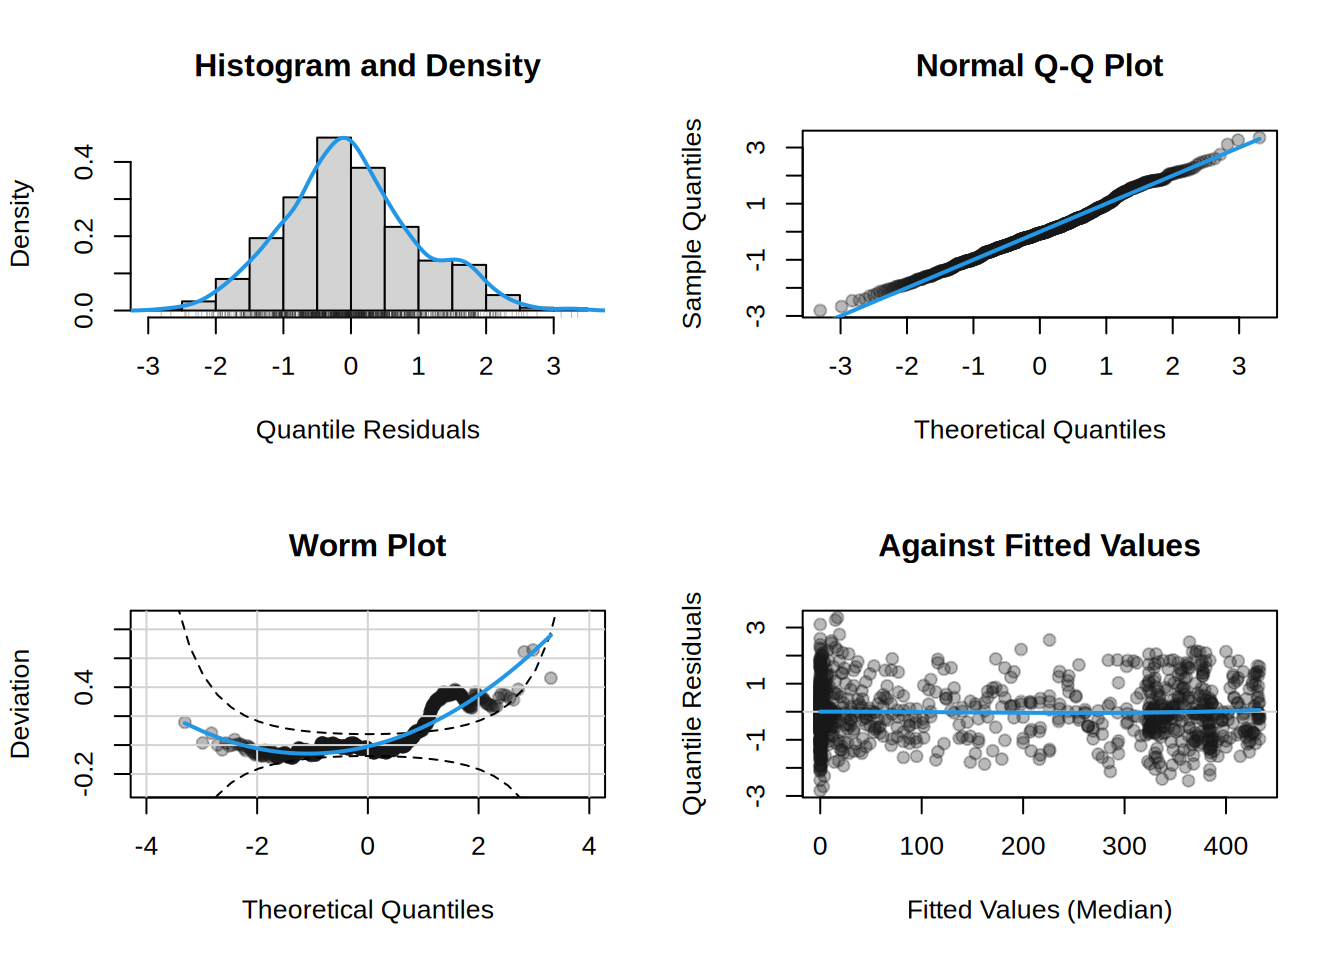
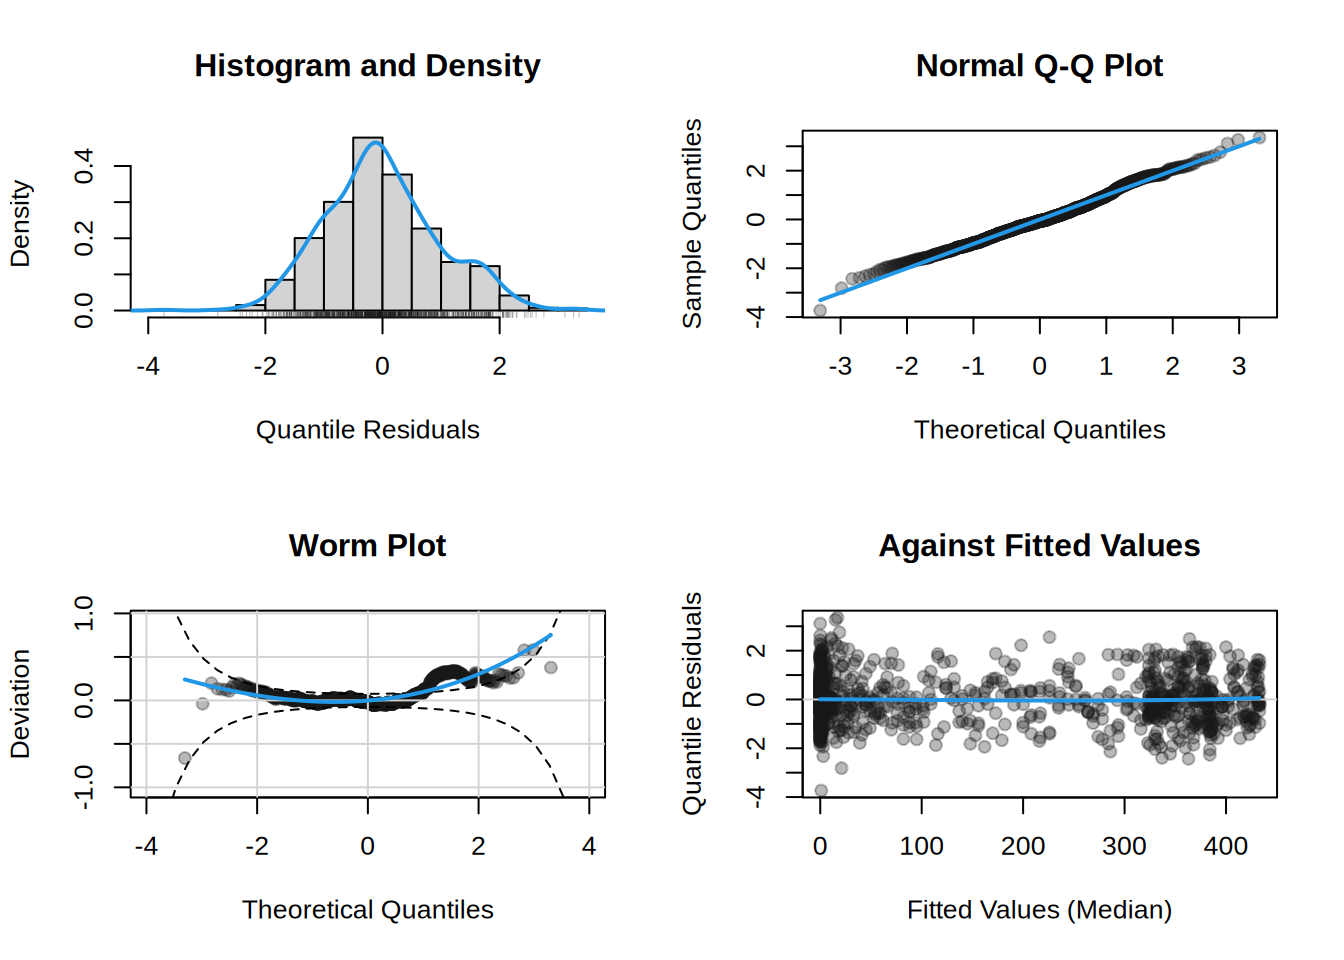
Deploying to gh-pages from @ gamlss-dev/gamlss2@b07c53fc587d2bda0cebe7bdfe5c32abd546854e 🚀

diff --git a/man/fk.html b/man/fk.html
@@ -723,10 +723,10 @@ pre > code.sourceCode > span > a:first-child::before { text-decoration: underlin
 <span id="cb1-3"><a href="#cb1-3" aria-hidden="true" tabindex="-1"></a><span class="fu">data</span>(<span class="st">"SpirometryUS"</span>)</span>
 <span id="cb1-4"><a href="#cb1-4" aria-hidden="true" tabindex="-1"></a></span>
 <span id="cb1-5"><a href="#cb1-5" aria-hidden="true" tabindex="-1"></a><span class="do">## subset for female</span></span>
-<span id="cb1-6"><a href="#cb1-6" aria-hidden="true" tabindex="-1"></a>d <span class="ot">&lt;-</span> <span class="fu">subset</span>(SpirometryUS, gender <span class="sc">==</span> <span class="st">"female"</span>)</span>
+<span id="cb1-6"><a href="#cb1-6" aria-hidden="true" tabindex="-1"></a>d <span class="ot">&lt;-</span> <span class="fu">subset</span>(SpirometryUS, gender <span class="sc">==</span> <span class="st">"male"</span>)</span>
 <span id="cb1-7"><a href="#cb1-7" aria-hidden="true" tabindex="-1"></a></span>
 <span id="cb1-8"><a href="#cb1-8" aria-hidden="true" tabindex="-1"></a><span class="do">## Automatically select zero through four free interior knots</span></span>
-<span id="cb1-9"><a href="#cb1-9" aria-hidden="true" tabindex="-1"></a>m1 <span class="ot">&lt;-</span> <span class="fu">gamlss2</span>(fev1 <span class="sc">~</span> <span class="fu">fk</span>(age, <span class="at">k =</span> <span class="dv">4</span>) <span class="sc">|</span> ., <span class="at">data =</span> d, <span class="at">family =</span> NO)</span>
+<span id="cb1-9"><a href="#cb1-9" aria-hidden="true" tabindex="-1"></a>m1 <span class="ot">&lt;-</span> <span class="fu">gamlss2</span>(fev1 <span class="sc">~</span> <span class="fu">fk</span>(age, <span class="at">nk =</span> <span class="dv">1</span>) <span class="sc">|</span> ., <span class="at">data =</span> d, <span class="at">family =</span> NO)</span>
 <span id="cb1-10"><a href="#cb1-10" aria-hidden="true" tabindex="-1"></a></span>
 <span id="cb1-11"><a href="#cb1-11" aria-hidden="true" tabindex="-1"></a><span class="do">## estimated effects</span></span>
 <span id="cb1-12"><a href="#cb1-12" aria-hidden="true" tabindex="-1"></a><span class="fu">plot</span>(m1)</span>

diff --git a/man/gamlss2.html b/man/gamlss2.html
@@ -803,7 +803,7 @@ edf     7.8749     3.4060        7.7046
 *--------
 n = 116 df =  20.99 res.df =  95.01
 Deviance = 899.5552 Null Dev. Red. = 16.94%
-AIC = 941.5263 elapsed =  0.56sec</code></pre>
+AIC = 941.5263 elapsed =  0.75sec</code></pre>
 </div>
 <div class="code-copy-outer-scaffold"><div class="sourceCode cell-code" id="cb6"><pre class="sourceCode r code-with-copy"><code class="sourceCode r"><span id="cb6-1"><a href="#cb6-1" aria-hidden="true" tabindex="-1"></a><span class="do">## plot parameter-specific effects</span></span>
 <span id="cb6-2"><a href="#cb6-2" aria-hidden="true" tabindex="-1"></a><span class="fu">plot</span>(m1, <span class="at">which =</span> <span class="st">"effects"</span>)</span></code></pre></div><button title="Copy to Clipboard" class="code-copy-button"><i class="bi"></i></button></div>
@@ -924,7 +924,7 @@ edf     6.3823        6.2095
 *--------
 n = 1057 df =  14.59 res.df =  1042.41
 Deviance = 10150.8818 Null Dev. Red. = 12.62%
-AIC = 10180.0654 elapsed =  0.12sec</code></pre>
+AIC = 10180.0654 elapsed =  0.15sec</code></pre>
 </div>
 <div class="code-copy-outer-scaffold"><div class="sourceCode cell-code" id="cb16"><pre class="sourceCode r code-with-copy"><code class="sourceCode r"><span id="cb16-1"><a href="#cb16-1" aria-hidden="true" tabindex="-1"></a><span class="do">## effect plots</span></span>
 <span id="cb16-2"><a href="#cb16-2" aria-hidden="true" tabindex="-1"></a><span class="fu">plot</span>(m2)</span></code></pre></div><button title="Copy to Clipboard" class="code-copy-button"><i class="bi"></i></button></div>

diff --git a/man/OL.html b/man/OL.html
@@ -754,7 +754,7 @@ Signif. codes:  0 '***' 0.001 '**' 0.01 '*' 0.05 '.' 0.1 ' ' 1
 *--------
 n = 72 df =  9 res.df =  63
 Deviance = 3479.1493 Null Dev. Red. = -2099.21%
-AIC = 3497.1493 elapsed =  0.03sec</code></pre>
+AIC = 3497.1493 elapsed =  0.04sec</code></pre>
 </div>
 <div class="code-copy-outer-scaffold"><div class="sourceCode cell-code" id="cb7"><pre class="sourceCode r code-with-copy"><code class="sourceCode r"><span id="cb7-1"><a href="#cb7-1" aria-hidden="true" tabindex="-1"></a><span class="do">## compare coefficients</span></span>
 <span id="cb7-2"><a href="#cb7-2" aria-hidden="true" tabindex="-1"></a><span class="fu">coef</span>(m1)</span></code></pre></div><button title="Copy to Clipboard" class="code-copy-button"><i class="bi"></i></button></div>
